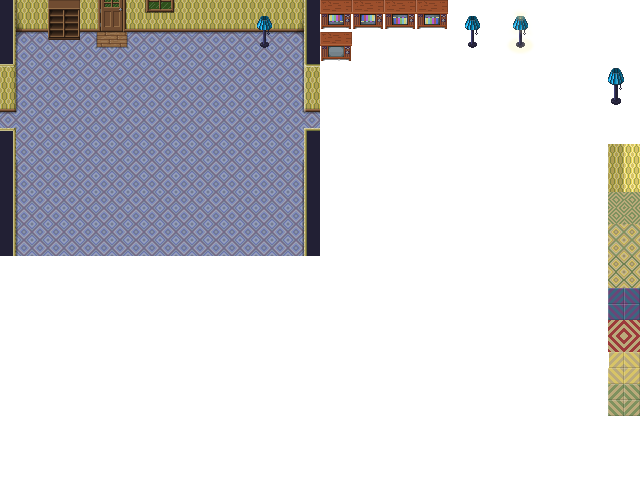
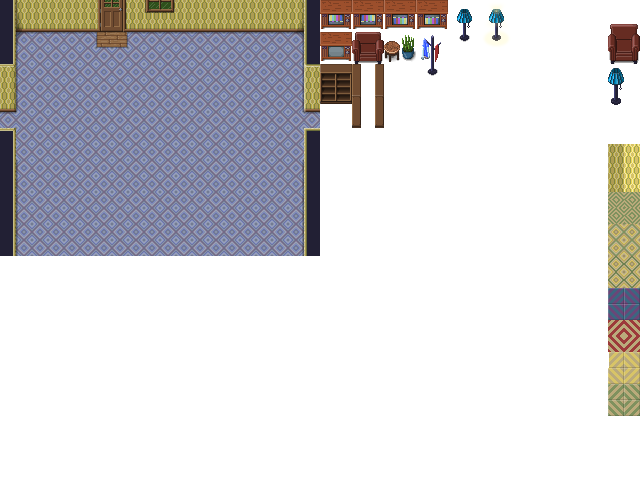
lr art: rearranged elements in scene, added coat rack and plant

diff --git a/js/scenes.js b/js/scenes.js
@@ -358,14 +358,22 @@ const LTRC = "lr_wall_trc";
 const LBRC = "lr_wall_brc";
 const LAND = "lr_landing";
 const DOOR = "lr_door";
+const LRWD = "lr_window";
 const LAMP = "lamp";
 const TELE = "tv";
+const LCHR = "lr_chair";
+const STBL = "side_table";
+const BKCS = "bookcase";
+const BKCL = "bookcase_l";
+const BKCR = "bookcase_r";
+const PLNT = "plant";
+const CTRK = "coatrack";
 
 const LVL3_BG_GRID = new Grid({
 	width: WIDTH,
 	height: HEIGHT,
 	entries: [
-		LWLL, LWTL, LWLT, LWLT, LWLT, LWLT, LWLT, LWLT, LWLT, DOOR, NOOP, LWLT, LWLT, LWLT, LWLT, LWLT, LWLT, LWLT, LWTR, LWLR,
+		LWLL, LWTL, LWLT, LWLT, LRWD, NOOP, LWLT, LWLT, LWLT, DOOR, NOOP, LWLT, LWLT, LRWD, NOOP, LWLT, LWLT, LWLT, LWTR, LWLR,
 		LWLL, NOOP, NOOP, NOOP, NOOP, NOOP, NOOP, NOOP, NOOP, NOOP, NOOP, NOOP, NOOP, NOOP, NOOP, NOOP, NOOP, NOOP, NOOP, LWLR,
 		LWLL, CRTL, CRPT, CRPT, CRPT, CRPT, CRPT, CRPT, CRPT, LAND, NOOP, CRPT, CRPT, CRPT, CRPT, CRPT, CRPT, CRPT, CRTR, LWLR,
 		LWLL, CRPL, CARP, CARP, CARP, CARP, CARP, CARP, CARP, CARP, CARP, CARP, CARP, CARP, CARP, CARP, CARP, CARP, CRPR, LWLR,
@@ -387,8 +395,16 @@ const LVL3_MID_GRID = new Grid({
 	width: WIDTH,
 	height: HEIGHT,
 });
-LVL3_MID_GRID.set(LAMP, 11, 0);
-LVL3_MID_GRID.set(TELE, 6, 1);
+LVL3_MID_GRID.set(PLNT, 1, 1);
+LVL3_MID_GRID.set(LCHR, 2, 1);
+LVL3_MID_GRID.set(STBL, 4, 1);
+LVL3_MID_GRID.set(BKCS, 7, 0);
+LVL3_MID_GRID.set(CTRK, 11, 0);
+LVL3_MID_GRID.set(TELE, 13, 1);
+LVL3_MID_GRID.set(LCHR, 15, 1);
+LVL3_MID_GRID.set(LAMP, 17, 0);
+LVL3_MID_GRID.set(BKCL, 1, 10);
+LVL3_MID_GRID.set(BKCR, 18, 10);
 
 const LVL3_FG_GRID = new Grid({
 	width: WIDTH,

diff --git a/js/assets.js b/js/assets.js
@@ -374,9 +374,17 @@ const assetDefs = {
 	  {id: "lr_wall_brc", kind: "sprite", width: 16, height: 16, 	xoffset: 16*19, yoffset: 16*8},
 	  {id: "lr_landing", kind: "sprite", width: 32, height: 16, 	xoffset: 16*6, yoffset: 16*2},
 	  {id: "lr_door", kind: "sprite", width: 32, height: 32, 		xoffset: 16*6, yoffset: 16*0},
-	  {id: "lamp", kind: "anim", width: 48, height: 64, frames: [
+	  {id: "lr_window", kind: "sprite", width: 32, height: 32, 		xoffset: 16*9, yoffset: 16*0},
+	  {id: "lr_chair", kind: "sprite", width: 32, height: 32, 		xoffset: 16*22, yoffset: 16*2},
+	  {id: "side_table", kind: "sprite", width: 16, height: 32, 	xoffset: 16*24, yoffset: 16*2},
+	  {id: "plant", kind: "sprite", width: 16, height: 32, 			xoffset: 16*25, yoffset: 16*2},
+	  {id: "bookcase", kind: "sprite", width: 32, height: 48, 		xoffset: 16*20, yoffset: 16*4},
+	  {id: "bookcase_l", kind: "sprite", width: 16, height: 64, 	xoffset: 16*22, yoffset: 16*4},
+	  {id: "bookcase_r", kind: "sprite", width: 16, height: 64, 	xoffset: 16*23, yoffset: 16*4},
+	  {id: "coatrack", kind: "sprite", width: 32, height: 48, 		xoffset: 16*26, yoffset: 16*2},
+	  {id: "lamp", kind: "anim", width: 32, height: 48, frames: [
 		  { duration: 3000, xoffset: 16*28, yoffset: 0 },
-		  { duration: 3000, xoffset: 16*31, yoffset: 0 },
+		  { duration: 3000, xoffset: 16*30, yoffset: 0 },
 	  ]},
 	  {id: "tv", kind: "anim", width: 32, height: 32, frames: [
 		  { duration: 500, xoffset: 16*20, yoffset: 0 },
